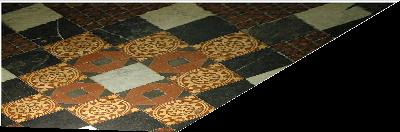
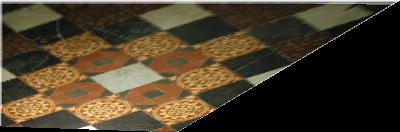
Enabled interpolation for affine rectification with parallel lines app; joined all common source files into the same source group

diff --git a/src/common/Interpolation.h b/src/common/Interpolation.h
@@ -1,0 +1,61 @@
+#ifndef __INTERPOLATION_H__
+#define __INTERPOLATION_H__
+
+#include <QImage>
+
+
+
+template <typename T>
+static T Lerp(T const& x, T const& x0, T const& x1, T const& y0, T const& y1)
+{
+	if ((x1 - x0) == 0)
+		return (y0 + y1) / 2;
+	return y0 + (x - x0) * (y1 - y0) / (x1 - x0);
+}
+
+
+static QRgb bilinearInterpol(const QImage& img, float x, float y, float dx, float dy)
+{
+	float x1 = x - dx;
+	float x2 = x + dx;
+	float y1 = y - dy;
+	float y2 = y + dy;
+
+	QRgb q11 = (x1 > -1 && y1 > -1) ? img.pixel(x1, y1) : img.pixel(x, y);
+	QRgb q21 = (x2 < img.width() && y1 > -1) ? img.pixel(x2, y1) : img.pixel(x, y);
+	QRgb q12 = (x1 > -1 && y2 < img.height()) ? img.pixel(x1, y2) : img.pixel(x, y);
+	QRgb q22 = (x2 < img.width() && y2 < img.height()) ? img.pixel(x2, y2) : img.pixel(x, y);
+
+	float q11r = float(qRed(q11)) / 255.0f;
+	float q21r = float(qRed(q21)) / 255.0f;
+	float q12r = float(qRed(q12)) / 255.0f;
+	float q22r = float(qRed(q22)) / 255.0f;
+	float r1 = ((x2 - x) / (x2 - x1))*q11r + ((x - x1) / (x2 - x1))*q21r;
+	float r2 = ((x2 - x) / (x2 - x1))*q12r + ((x - x1) / (x2 - x1))*q22r;
+	float red = ((y2 - y) / (y2 - y1)) * r1 + ((y - y1) / (y2 - y1)) * r2;
+
+	float q11g = float(qGreen(q11)) / 255.0f;
+	float q21g = float(qGreen(q21)) / 255.0f;
+	float q12g = float(qGreen(q12)) / 255.0f;
+	float q22g = float(qGreen(q22)) / 255.0f;
+	float g1 = ((x2 - x) / (x2 - x1))*q11g + ((x - x1) / (x2 - x1))*q21g;
+	float g2 = ((x2 - x) / (x2 - x1))*q12g + ((x - x1) / (x2 - x1))*q22g;
+	float green = ((y2 - y) / (y2 - y1)) * g1 + ((y - y1) / (y2 - y1)) * g2;
+
+	float q11b = float(qBlue(q11)) / 255.0f;
+	float q21b = float(qBlue(q21)) / 255.0f;
+	float q12b = float(qBlue(q12)) / 255.0f;
+	float q22b = float(qBlue(q22)) / 255.0f;
+	float b1 = ((x2 - x) / (x2 - x1))*q11b + ((x - x1) / (x2 - x1))*q21b;
+	float b2 = ((x2 - x) / (x2 - x1))*q12b + ((x - x1) / (x2 - x1))*q22b;
+	float blue = ((y2 - y) / (y2 - y1)) * b1 + ((y - y1) / (y2 - y1)) * b2;
+
+	
+	int r = red * 255.f;
+	int g = green * 255.f;
+	int b = blue * 255.f;
+
+	return qRgb(r, g, b);
+}
+
+#endif // __INTERPOLATION_H__

diff --git a/src/affine-rectific-parallel-lines-console/affine-rectif-parallel-lines.cpp b/src/affine-rectific-parallel-lines-console/affine-rectif-parallel-lines.cpp
@@ -3,7 +3,7 @@
 #include <Eigen/Dense>
 #include <iostream>
 #include <fstream>
-//#include <interpolation.h>
+#include "Interpolation.h"
 #include "Arpl.h"
 
 void readConfigFile(const char* config_file, Arpl& arpl, std::string& input_file_name, std::string& output_file_name, bool& interpolate)
@@ -103,12 +103,12 @@ int main(int argc, char* argv[])
 				&& t.x() < input.width()
 				&& t.y() < input.height())
 			{
-				//if (interpolate)
-				//{
-				//	QRgb rgb = bilinearInterpol(input, t.x(), t.y(), dx, dy);
-				//	output.setPixel(x, y, rgb);
-				//}
-				//else
+				if (interpolate)
+				{
+					QRgb rgb = bilinearInterpol(input, t.x(), t.y(), dx, dy);
+					output.setPixel(x, y, rgb);
+				}
+				else
 				{
 					output.setPixel(x, y, input.pixel(t.x(), t.y()));
 				}
